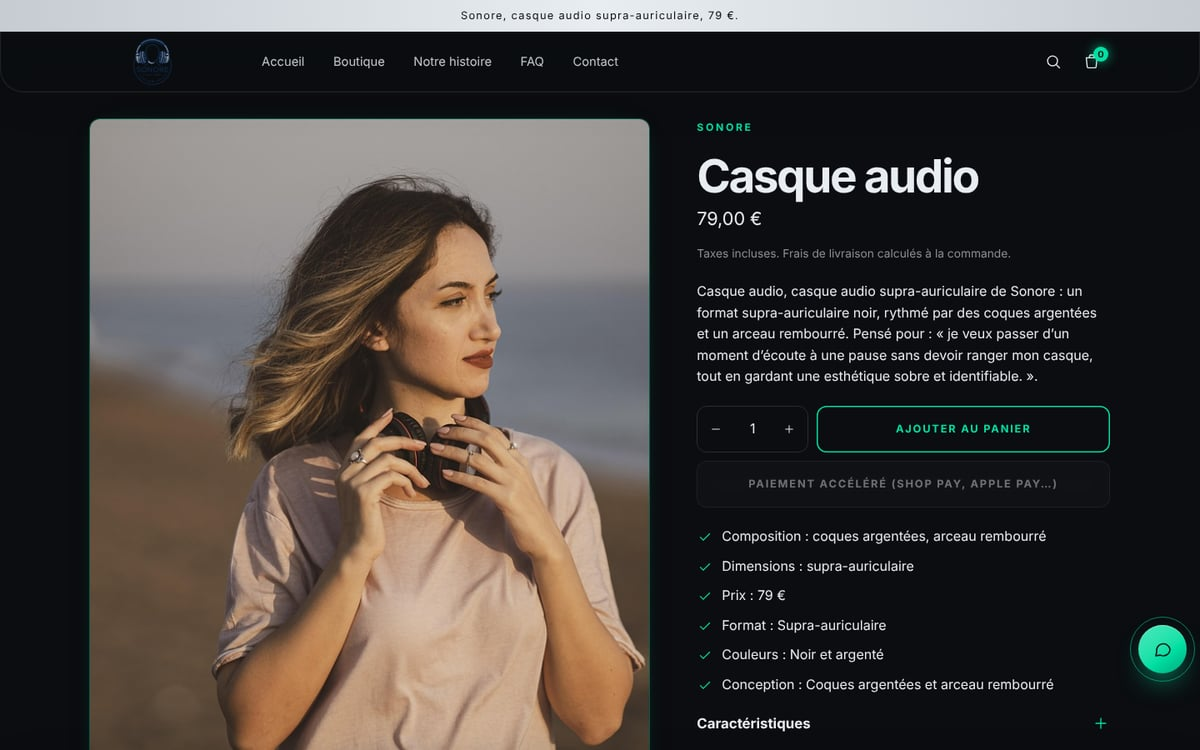
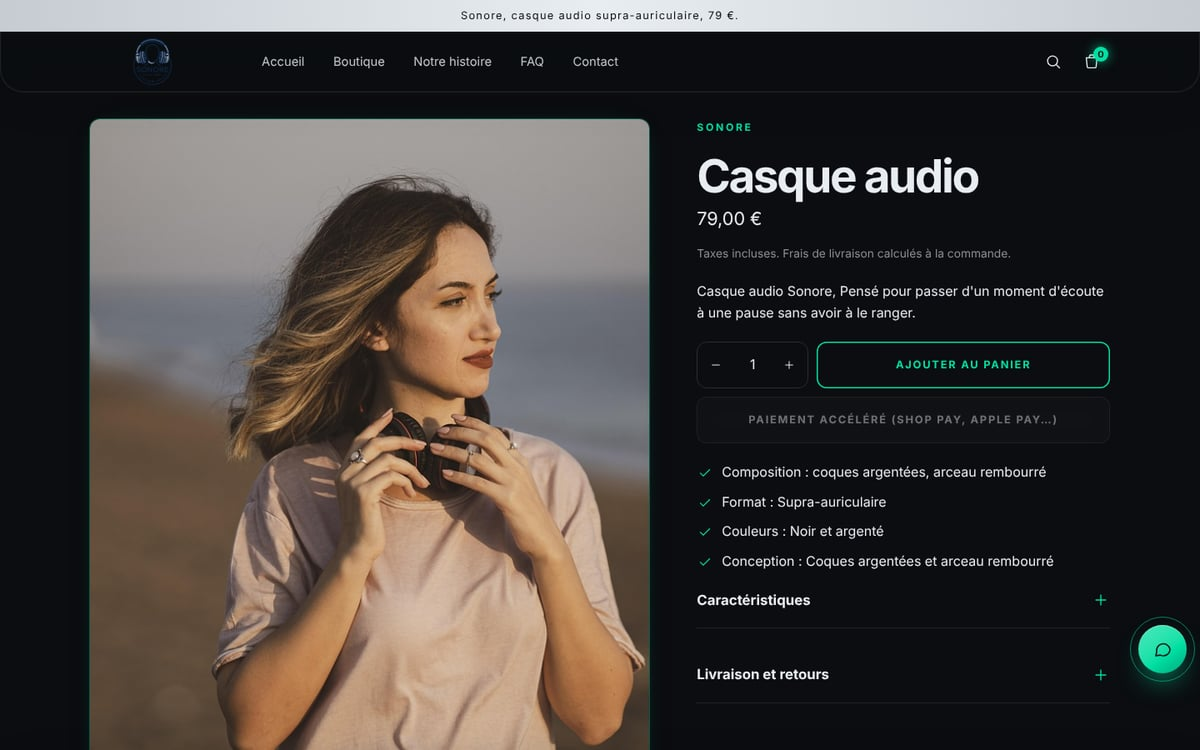
Démo Sonore : texte du propriétaire et points forts sans doublon ; « hero » gardé en anglais ; consigne Pixabay
- Fiche produit Sonore refaite en local (sans IA) : description du propriétaire mot pour mot, points forts
  sans doublon (« Dimensions » et « Prix » retirés), même photo d'origine
- Nom anglais de la section d'ouverture : « Site hero » (le mot hero reste en anglais)
- CLAUDE.md : exception Pixabay des sites de services, toujours signalée au client et remplaçable

Claude-Session: https://claude.ai/code/session_01SQTasjoNpHGRuZfxxy6CkW

Changed region(s): [[0.5858, 0.368, 0.925, 0.6747], [0.5858, 0.7053, 0.8942, 0.92], [0.5858, 0.9507, 0.6783, 0.9813]]

diff --git a/src/lib/theme/section-library.ts b/src/lib/theme/section-library.ts
@@ -12,7 +12,7 @@ export type LibraryEntry = { type: string; name: string; category: SectionCatego
 
 /** Noms, descriptions et mots-clés anglais (la catégorie reste la clé française, traduite par l'interface). */
 const SECTION_LIBRARY_EN: Record<string, { name: string; description: string; keywords: string }> = {
-  "v2-hero": { name: "Site opening", description: "Opening in five compositions: product on a stage, photo and text, typographic (no photo), interface screenshot, or signboard with a slate. Only confirmed facts are shown.", keywords: "hero opening banner v2 stage typographic interface signboard" },
+  "v2-hero": { name: "Site hero", description: "Opening in five compositions: product on a stage, photo and text, typographic (no photo), interface screenshot, or signboard with a slate. Only confirmed facts are shown.", keywords: "hero opening banner v2 stage typographic interface signboard" },
   "v2-index": { name: "Offer list", description: "Services, menu, highlights or features as numbered rows, cards, tiles or a restaurant menu. Ideal right after the opening.", keywords: "services menu features list rows cards tiles v2" },
   "v2-split": { name: "Text and photo", description: "Image and text side by side, or text overlapping the image's edge; without an image it becomes a large typographic quote — never an empty frame.", keywords: "image text split overlap quote v2" },
   "v2-steps": { name: "Numbered steps", description: "Process as a timeline, a numbered column or cards. Ideal to explain how a quote, a booking or onboarding works.", keywords: "steps process timeline how it works v2" },

diff --git a/tests/audit-onglet-boutique.test.ts b/tests/audit-onglet-boutique.test.ts
@@ -125,7 +125,7 @@ describe("Onglet Boutique — aucun jargon technique visible, carte du tutoriel 
       for (const t of baseSectionTypes()) expect(libraryEntry(t, lang)?.name ?? "").not.toMatch(/\bV2\b/);
     }
     expect(sectionSchema(null, "v2-hero", "fr")!.name).toBe("Ouverture du site");
-    expect(sectionSchema(null, "v2-hero", "en")!.name).toBe("Site opening");
+    expect(sectionSchema(null, "v2-hero", "en")!.name).toBe("Site hero");
     expect(sectionSchema(null, "v2-band", "en")!.name).toBe("Transition band");
   });
   it("panneau du site et carte « Première visite ? » : libellé clair, en haut de l'écran sur téléphone", () => {

diff --git a/CLAUDE.md b/CLAUDE.md
@@ -102,6 +102,9 @@ bascule silencieuse (blocage signalé). Règles et branchements : `docs/guide-im
 `src/lib/image-v2/art-direction.ts` (mémoire `image.art_direction`, versionnée).
 Modèle d'images de tout le studio : **Qwen-Image 3.0 Pro**, une seule étape (choix du propriétaire) ; produit
 entier exigé (aucune partie coupée).
+Exception choisie par le propriétaire — sites de services : les photos Pixabay restent permises comme images du site,
+mais jamais en silence : le studio les signale au client (onglet Boutique et aperçu du studio, jamais sur le site
+publié) et permet de les remplacer par sa photo ou une image IA (`src/lib/theme/stock-notice.ts`).
 
 ## Ligne directrice de marque (cohésion)
 
